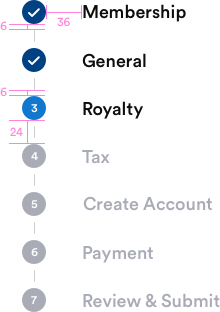
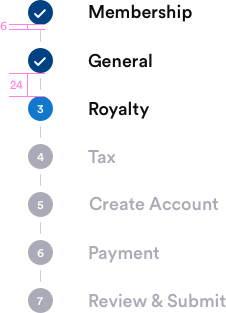
Second big push on updating more elements and components with screenshots and text.

diff --git a/source/stylesheets/screen.css.scss b/source/stylesheets/screen.css.scss
@@ -434,7 +434,7 @@ html, body {
     }
 
     tr:nth-child(odd)>td {
-      background-color: lighten($main-bg,4.2%);
+      background-color: lighten(#eeeeee,4.2%);
     }
 
     tr:nth-child(even)>td {

diff --git a/source/index.html.md b/source/index.html.md
@@ -21,6 +21,8 @@ Style guide for the Online Member Enrollment project.
 
 The design is based off of a 12 column grid.
 
+![alt text](/images/grid.png)
+
 Title          | Mobile >599px   | Desktop <600px
 -------------- | -------------- | --------------
 Columns        | 1              | 12
@@ -66,12 +68,15 @@ $g100: #ffffff;
   background: $g100,
   background-image: linear-gradient(-180deg, rgba(255,255,255,0.00) 0%, $b400 3%)
 }
-```
 
+.gershwin {
+  background: $g200;
+  background-image: linear-gradient(-180deg, rgba(255,255,255,0.00) 0%, rgba(216,219,226,0.40) 100%);
+}
+```
+The color scheme is organized by Color, Neutral or Gray and from darkest to lightest.
 
 ![alt text](/images/color.png)
-
-The color scheme is organized by Color, Neutral or Gray and from darkest to lightest.
 
 ## Typography
 
@@ -82,7 +87,7 @@ The color scheme is organized by Color, Neutral or Gray and from darkest to ligh
   $black  : 700;
 ```
 
-Font Weights
+The primary typeface used for OME is Circular. The four font weights are book, medium, bold and black.
 
 # Elements
 
@@ -111,7 +116,7 @@ Font Weights
 **Behaviors:**
 
 * These buttons are used for the most important action on the screen.
-* There is a hover state
+* Hover: background color changes
 
 **Example:**
 
@@ -142,7 +147,7 @@ Font Weights
 **Behaviors:**
 
 * These buttons are used for the second most important action on the screen.
-* There is a hover state
+* Hover: background color changes
 
 **Example:**
 
@@ -226,7 +231,18 @@ Font Weights
 
 ## Button Group
 
-![alt text](/images/elements/continue-and-back.png)
+```scss
+.button-group {
+  margin-top: 60px;
+  margin-bottom: 36px;
+}
+
+.button:first-child {
+  margin-right: 12px;
+}
+```
+
+![alt text](/images/elements/buttongroup.png)
 
 **Behaviors:**
 
@@ -265,7 +281,7 @@ a .has--icon-add {
 
 ```
 
-![alt text](/images/elements/anchor-links.png)
+![alt text](/images/elements/anchorlinks.png)
 
 **Behaviors:**
 
@@ -398,6 +414,7 @@ dropdown {
   line-height: 20px;
   font-weight: $medium;
   color: $g800;
+  margin-bottom: 1px;
 }
 
 .description {
@@ -406,6 +423,7 @@ dropdown {
   font-weight: $book;
   color: $g800;
   opacity: 0.74;
+  margin-bottom: 18px;
 }
 ```
 
@@ -415,6 +433,8 @@ dropdown {
 
 * Labels are used to identify a form group, such as asking for a name
 * Descriptions are used to give the user context for the form group
+* The spacing between the title and description is 1px
+* The spacing after the description and first form element is 18px
 
 **Example:**
 
@@ -475,63 +495,128 @@ dropdown {
 
 ## Header
 
-The header has 64px left/right padding and has a fixed position at the top of the browser window. The logo, titles and help link should be aligned center.
-
-### Logo
-
-Has a width of 104px and is positioned 26px from the top.
-
-### Site Title
-
 ```scss
+.site-title {
   font-size: 24px;
   font-weight: 400;
-```
+}
 
-### Application Title
-
-The application title should reflect the application the user selects.
-
-```scss
+.app-title {
   color: $g100;
   font-size: 13px;
   font-weight: 600;
   letter-spacing: 1px;
   text-transform: uppercase;
-```
+}
 
-### Help Link
-
-```scss
+.looking-for-help {
   color: $white;
   font-weight: 500;
   font-size: 16px;
+}
 ```
 
+![alt text](/images/components/header-writer.png)
+
+**Behavior:**
+
+* The header has 64px left/right padding and has a fixed position at the top of the browser window. The logo, titles and help link should be aligned center.
+* Logo: Has a width of 104px and is positioned 26px from the top.
+* App Title: The application title should reflect the application the user selects.
+* Help Link: Clicking on this displays the Support Panel
 
 ## Footer
 
+```scss
+.footer {
+  padding: 24px;
+  border-top: 1px solid $n300;
+}
+
+.nav {
+  font-weight: $medium;
+  font-size: 12px;
+  text-transform: uppercase;
+  letter-spacing: 1px;
+  margin-right: 24px;
+
+  &:last-child {
+    margin-right: 0;
+  }
+}
+
+.nav-group {
+  margin-bottom: 16px;
+}
+
+.social-icon-background {
+  width: 32px;
+  height: 32px;
+  background: transparent;
+}
+```
+
+![alt text](/images/components/footer.png)
+
+**Behaviors:**
+
+* Footer has 24px paddin with a 1px top border
+* Navigation links are separated by 24px padding
+* There's a 16px margin that separates the navigation and social icons
+* Social Icons: have a size of 32x32
+* Instagram: width of 18px
+* Facebook: width of 8px
+* Twitter: width of 18px
+
 ## Indicators
+
+```scss
+.circle {
+  width: 25px;
+  height: 25px;
+  border-radius: 100%;
+  background: $n400;
+  margin-bottom: 6px;
+
+  &--current {
+    background: $b400;
+  }
+
+  &--completed {
+    background-color: $b600;
+  }
+}
+
+.section-title {
+  color: $g800;
+
+  &--inactive {
+    color: $n400;
+  }
+}
+```
 
 ![alt text](/images/components/indicator.png)
 
 **Behaviors:**
-* ...
+
+* Indicators are used to show the user where they are currently in the application process and the next steps
+* Indicator circles change color and icon depending on completion of sections.
 
 ## Application Sections
 
-![alt text](/images/elements/formgroup.png)
+![alt text](/images/components/formsection.png)
 
 **Behaviors:**
 
-* A form group is comprised of a label, description and form elements (inputs, dropdowns, etc)
-* The spacing between form elements is 14px
-* The spacing between the description and first form element is 18px
-* The spacing after the form group is 36px on desktop and 24px on mobile
+* A form section is comprised of a label, description, cards and form elements (inputs, dropdowns, etc)
+* The spacing between the form title and first form group is 24px.
+* The spacing between the last form group and button groups is 60px
+* The spacing between the button groups and next form title is 36px
 
 **Sections:**
 
-* Indicators with titles
+* Indicators with section titles
 * Form Groups
 * Button Group - Continue and Back buttons
 
@@ -549,5 +634,74 @@ The application title should reflect the application the user selects.
 **Example:**
 
 * Resident Address in General Section
+
+## Tooltips
+
+![alt text](/images/components/tooltip.png)
+
+**Behaviors:**
+
+* ...
+
+**Example:**
+
+* CVC Tooltip
+* Bank Routing/Account Number Tooltip
+
+## Donation
+
+![alt text](/images/components/donation.png)
+
+**Behaviors:**
+
+* ...
+
+## Payment Summary
+
+![alt text](/images/components/paymentsummary.png)
+
+**Behaviors:**
+
+* ...
+
+## Membership Options
+
+![alt text](/images/components/membershipoptions.png)
+
+**Behaviors:**
+
+* ...
+
+## Direct Deposit
+
+![alt text](/images/components/directdeposit.png)
+
+**Behaviors:**
+
+* ...
+
+## Create Account
+
+![alt text](/images/components/createaccount.png)
+
+**Behaviors:**
+
+* ...
+
+## Required Documents
+
+![alt text](/images/components/requireddocuments.png)
+
+**Behaviors:**
+
+* ...
+
+## Support Panel
+
+![alt text](/images/components/supportpanel.png)
+
+**Behaviors:**
+
+* ...
 
 # Animations
